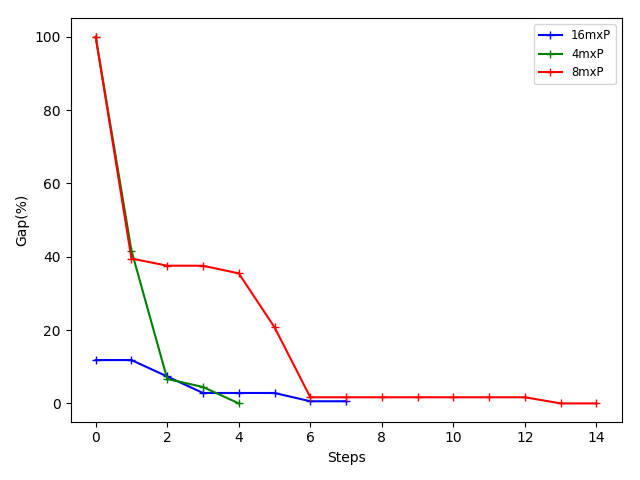
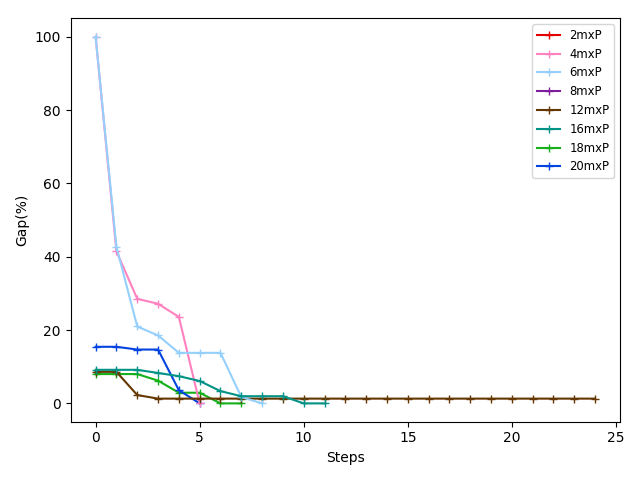
GapCharts color and sorting

diff --git a/Tools/Reporting/GapCharts.py b/Tools/Reporting/GapCharts.py
@@ -8,6 +8,7 @@ import re
 import traceback
 from datetime import datetime
 import argparse
+import operator
 
 def buildGapChart(data, name, namei):
     """
@@ -19,7 +20,36 @@ def buildGapChart(data, name, namei):
     # plot 
     fig, ax = plt.subplots() 
 
-    colors = ['b', 'g', 'r', 'c', 'm', 'y', 'k']
+    #colors = ['b', 'g', 'r', 'c', 'm', 'y', 'k', 'w']
+    colors = [
+        'xkcd:green',
+        'xkcd:purple',
+        'xkcd:blue',
+        'xkcd:pink',
+        'xkcd:brown',
+        'xkcd:red',
+        'xkcd:light blue',
+        'xkcd:teal',
+        'xkcd:orange',
+        'xkcd:light green',
+        'xkcd:magenta',
+        'xkcd:yellow',
+        'xkcd:sky blue',
+        'xkcd:grey',
+        'xkcd:lime green',
+        'xkcd:violet',
+        'xkcd:dark green',
+        'xkcd:olive',
+        'xkcd:dark purple',
+        'xkcd:forest green',
+        'xkcd:tan',
+        'xkcd:royal blue',
+        'xkcd:black',
+        'xkcd:beige',
+        'xkcd:peach',
+        'xkcd:indigo',
+        'xkcd:mustard'
+    ]
     i = 0
     for k, v in data.items():
 
@@ -45,10 +75,18 @@ def buildGapChart(data, name, namei):
 
         i +=1
 
-    ax.legend(loc='upper right', fontsize='small')
-
+    
     plt.xlabel('Steps')
     plt.ylabel('Gap(%)')
+
+    handles, labels = ax.get_legend_handles_labels()
+    hl = sorted(zip(handles, labels),
+                key=lambda x: float(str(x[1])) )
+
+    handles2, labels2 = zip(*hl)
+    print(labels2)
+    ax.legend(handles2, labels2, loc='upper right', fontsize='small')
+
 
 
 
@@ -79,7 +117,36 @@ def buildChart(data, name, gap):
     # plot 
     fig, ax = plt.subplots() 
 
-    colors = ['b', 'g', 'r', 'c', 'm', 'y', 'k', 'w']
+    #colors = ['b', 'g', 'r', 'c', 'm', 'y', 'k', 'w']
+    colors = [
+        'xkcd:green',
+        'xkcd:purple',
+        'xkcd:blue',
+        'xkcd:pink',
+        'xkcd:brown',
+        'xkcd:red',
+        'xkcd:light blue',
+        'xkcd:teal',
+        'xkcd:orange',
+        'xkcd:light green',
+        'xkcd:magent',
+        'xkcd:yellow',
+        'xkcd:sky blue',
+        'xkcd:grey',
+        'xkcd:lime green',
+        'xkcd:violet',
+        'xkcd:dark green',
+        'xkcd:olive',
+        'xkcd:dark purple',
+        'xkcd:forest green',
+        'xkcd:tan',
+        'xkcd:royal blue',
+        'xkcd:black',
+        'xkcd:beige',
+        'xkcd:peach',
+        'xkcd:indigo',
+        'xkcd:mustard'
+    ]
     i = 0
     for k, v in data.items():
 
@@ -107,7 +174,13 @@ def buildChart(data, name, gap):
 
         i +=1
 
-    ax.legend(loc='upper right', fontsize='small')
+    handles, labels = ax.get_legend_handles_labels()
+    hl = sorted(zip(handles, labels),
+                key= lambda x: float(operator.itemgetter(1)[:-1]) )
+
+    handles2, labels2 = zip(*hl)
+    print(labels2)
+    ax.legend(handles2, labels2, loc='upper right', fontsize='small')
 
     plt.xlabel('Steps( gap =' +  str(gap) + ')')
     plt.ylabel('Best Integer/Bound')
@@ -120,7 +193,7 @@ def buildChart(data, name, gap):
 
     # plt.savefig(pp, format='pdf')
     # pp.close()
-    print(os.getcwd())
+
     plt.savefig('../graphs/' + name  + '.png')
 
     plt.show()
